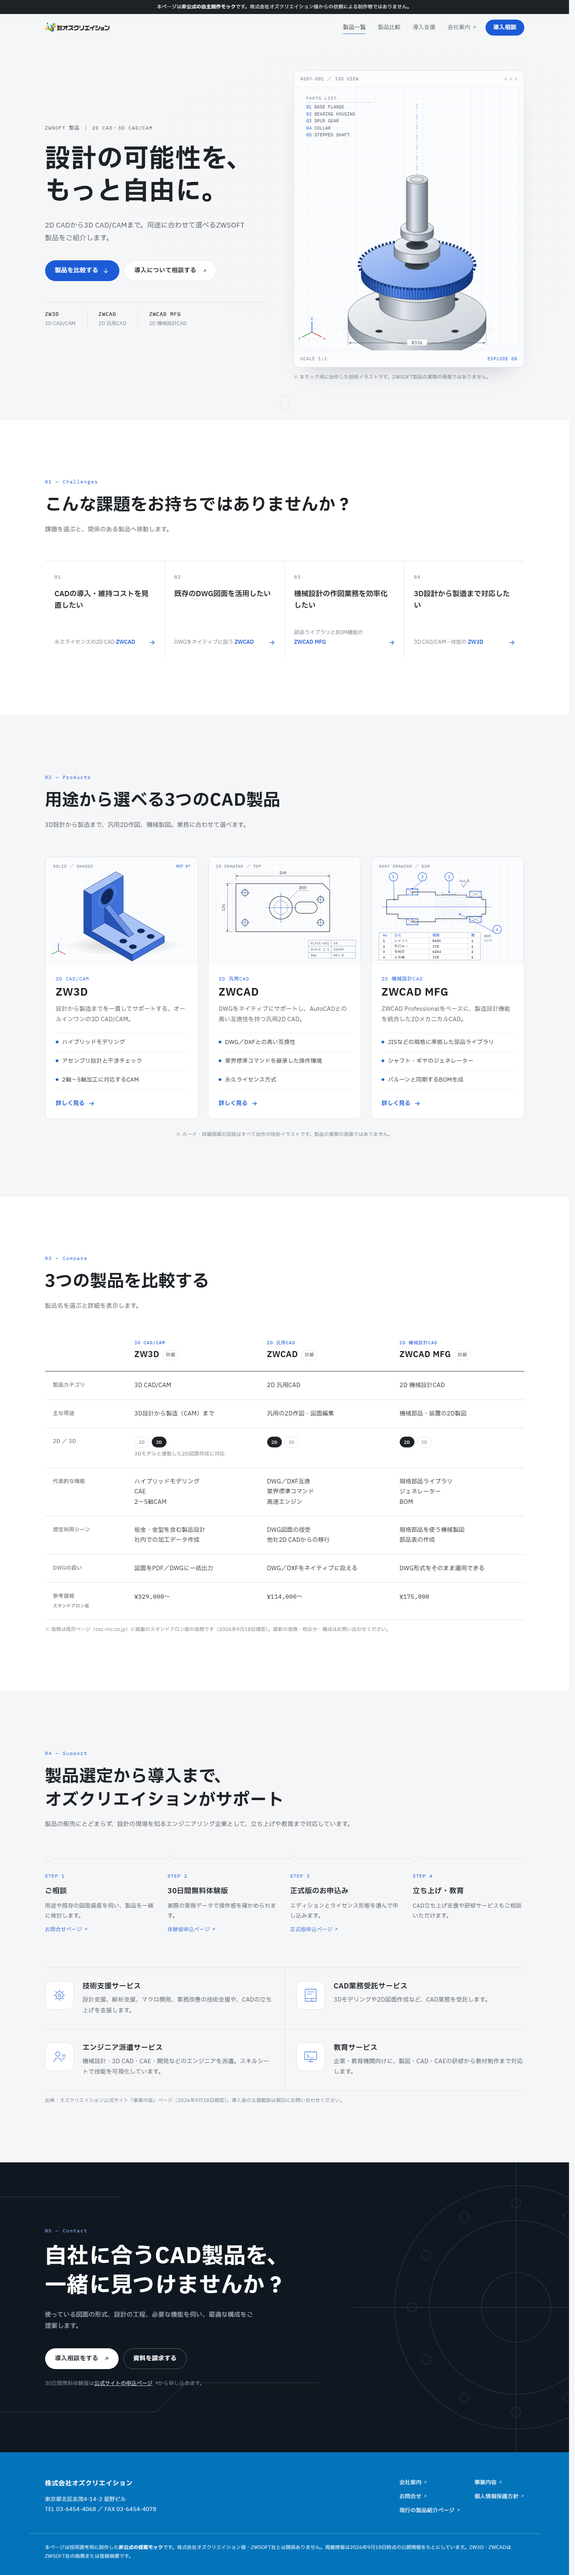
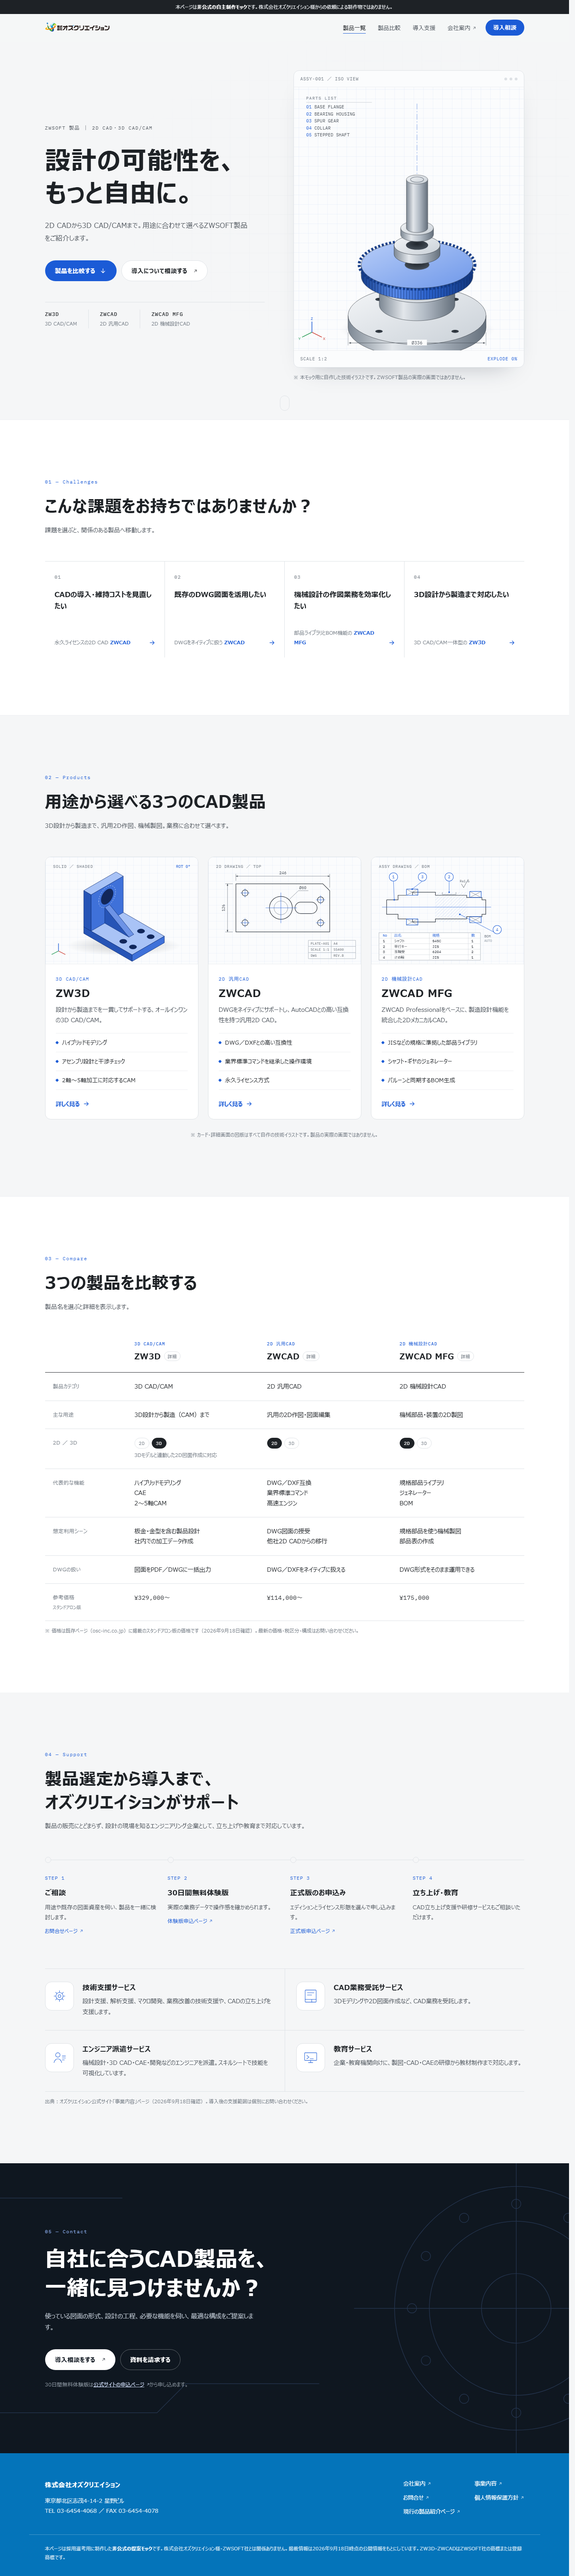
style: switch body font to Meiryo UI
- Body font: "Meiryo UI", Meiryo with Hiragino fallback; drop IBM Plex Sans JP
- Update asset log and verification screenshots

diff --git a/index.html b/index.html
@@ -8,7 +8,7 @@
   <meta name="robots" content="noindex, nofollow">
   <link rel="preconnect" href="https://fonts.googleapis.com">
   <link rel="preconnect" href="https://fonts.gstatic.com" crossorigin>
-  <link href="https://fonts.googleapis.com/css2?family=IBM+Plex+Mono:wght@400;500&family=IBM+Plex+Sans+JP:wght@400;500;600;700&display=swap" rel="stylesheet">
+  <link href="https://fonts.googleapis.com/css2?family=IBM+Plex+Mono:wght@400;500&display=swap" rel="stylesheet">
   <link rel="stylesheet" href="css/style.css">
 </head>
 <body>

diff --git a/css/style.css b/css/style.css
@@ -18,7 +18,7 @@
   --night-2: #17212c;
   --osc-blue: #0474ba; /* sampled from osc-inc.co.jp */
 
-  --font: "IBM Plex Sans JP", "Hiragino Sans", "Yu Gothic UI", sans-serif;
+  --font: "Meiryo UI", "メイリオ", Meiryo, "Hiragino Sans", "Hiragino Kaku Gothic ProN", sans-serif;
   --mono: "IBM Plex Mono", ui-monospace, "SFMono-Regular", monospace;
 
   --radius: 14px;

diff --git a/ASSETS.md b/ASSETS.md
@@ -13,7 +13,8 @@
 | 導入支援の線画アイコン4点、最終CTA背景の図面線 | 導入支援、最終CTA | 自作 | 同上 | ○ 使用 |
 | オズクリエイション企業ロゴ（`assets/osc-logo.png`、270×60px PNG） | ヘッダー左上 | osc-inc.co.jp 掲載のロゴ（ユーザー提供の画像） | 利用許諾の記載なし。**採用選考で同社に提示する提案モックとして、ユーザーの指示で使用** | △ 面接での提示のみ。一般公開・デプロイする場合は許諾が必要 |
 | フッター背景色 #0474BA | フッター | osc-inc.co.jp の画面から色を抽出 | 色のみ（著作物ではない） | ○ 使用 |
-| IBM Plex Sans JP / IBM Plex Mono | 全体の書体 | Google Fonts | SIL Open Font License 1.1 | ○ 使用 |
+| Meiryo UI／メイリオ | 本文・見出しの書体 | Windows標準フォント（閲覧者の端末のものを使用。配布・埋め込みなし） | 端末にインストール済みのフォントを参照するだけ | ○ 使用（Macなどではヒラギノ角ゴにフォールバック） |
+| IBM Plex Mono | 図版・ラベルの英数字 | Google Fonts | SIL Open Font License 1.1 | ○ 使用 |
 
 すべての図版には「自作の技術イラストであり、製品の実際の画面ではない」旨を注記しています。
 
